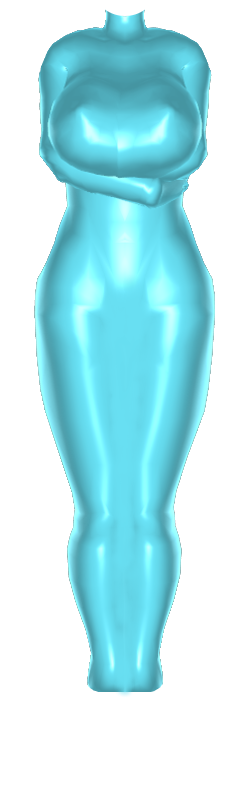
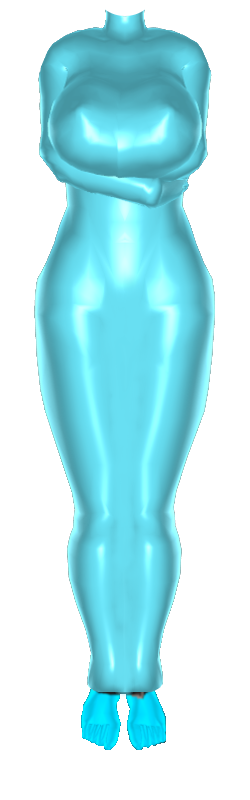
stuff

Changed region(s): [[0.308, 0.8438, 0.672, 0.9375]]

diff --git a/BondageClub/Assets/Female3DCG/Female3DCG.js b/BondageClub/Assets/Female3DCG/Female3DCG.js
@@ -110,7 +110,7 @@ var AssetFemale3DCG = [
 		ParentColor: "Bra",
 		Clothing: true,
 		Underwear: true,
-		AllowPose: ["LegsClosed", "Kneel", "FeetDress"],
+		AllowPose: ["LegsClosed", "Kneel"],
 		Color: ["Default", "#cccccc", "#aaaaaa", "#888888", "#666666", "#444444", "#222222", "#aa8080", "#80aa80", "#8080aa", "#aaaa80", "#80aaaa", "#aa80aa", "#cc3333", "#33cc33", "#3333cc", "#cccc33", "#33cccc", "#cc33cc"],
 		Left: 125,
 		Top: 400,
@@ -276,7 +276,7 @@ var AssetFemale3DCG = [
 		AllowColorize: false,
 		ParentSize: "BodyUpper",
 		ParentColor: "BodyUpper",
-		AllowPose: ["LegsClosed", "Kneel", "FeetDress"],
+		AllowPose: ["LegsClosed", "Kneel"],
 		Color: ["White", "Asian", "Black"],
 		Top: 462,
 		Asset: ["Small", "Normal", "Large", "XLarge"]
@@ -439,7 +439,7 @@ var AssetFemale3DCG = [
 			{ Name: "MermaidRopeTie", Value: 30, Time: 15, Difficulty: 3, SetPose: ["LegsClosed"] },
 			{ Name: "LeatherLegCuffs", Value: 30, Time: 10, Difficulty: 2, Priority: 20, AllowPose: ["LegsClosed"], Extended: true, AllowLock: true, AllowEffect: ["Block", "Prone"], AllowType: ["Closed"] },
 			{
-                Name: "LegBinder", Value: 150, SetPose: ["LegsClosed"], Hide: ["Shoes", "Socks"], Block: ["ClothLower", "ItemFeet"], Effect: ["Prone"], Time: 30, RemoveTime: 20, Difficulty: 15, AllowLock: true, Prerequisite: "NotKneeling",
+                Name: "LegBinder", Value: 150, SetPose: ["LegsClosed"], Hide: ["Shoes", "Socks", "ClothLower"], HideItem: ["ItemFeetNylonRope", "ItemFeetHempRope", "ItemFeetLeatherAnkleCuffs", "ItemFeetMermaidRopeTie"], Effect: ["Prone"], Time: 30, RemoveTime: 20, Difficulty: 15, AllowLock: true, Prerequisite: "NotKneeling",
                 Layer: [
                     { Name: "Latex", AllowColorize: true },
                     { Name: "Belts", AllowColorize: false }
@@ -694,7 +694,7 @@ var AssetFemale3DCG = [
 			{ Name: "BitchSuit", Random: false, SelfBondage: false, SelfUnlock: false, Value: 250, SetPose: ["BackElbowTouch", "Kneel"], Hide: ["Cloth", "ClothLower", "BodyLower", "Shoes", "Socks"], Block: ["ItemPelvis", "ItemTorso", "ItemBreast", "ItemHands"], Effect: ["Block", "Prone", "ForceKneel"], Time: 40, RemoveTime: 30, Difficulty: 15, AllowLock: true, Prerequisite: "NotSuspended" },
 			{ Name: "CollarLeashHolding", Random: false, SelfBondage: false, Priority: 34, Value: -1, Time: 3, RemoveTime: 3, Difficulty: 1, Prerequisite: "NotSuspended" },
 			{
-			    Name: "StraitDress", Random: false, SelfBondage: false, SelfUnlock: false, Value: 200, SetPose: ["BackElbowTouch", "FeetDress"], Hide: ["Cloth", "ClothLower", "Shoes"], Block: ["ItemPelvis", "ItemTorso", "ItemBreast", "ItemHands", "ItemFeet", "ItemNipples", "ItemVulva", "ItemLegs", "ItemButt"], Effect: ["Block", "Prone"], Time: 40, RemoveTime: 30, Difficulty: 15, AllowLock: true, Prerequisite: "NotKneeling",
+			    Name: "StraitDress", AllowPose: ["Kneel"], Random: false, SelfBondage: false, SelfUnlock: false, Value: 200, SetPose: ["BackElbowTouch", "LegsClosed"], Hide: ["Socks", "BodyLower", "Cloth", "ClothLower", "Shoes"], Block: ["ItemPelvis", "ItemTorso", "ItemBreast", "ItemHands", "ItemFeet", "ItemNipples", "ItemVulva", "ItemLegs", "ItemButt"], Effect: ["Block", "Prone"], HideItem: ["ItemLegsLegBinder", "ItemLegsLeatherLegCuffs", "ItemLegsMermaidRopeTie", "ItemLegsDuctTape", "ItemLegsLeatherBelt", "ItemLegsHempRope", "ItemLegsNylonRope", "ItemFeetNylonRope", "ItemFeetHempRope", "ItemFeetLeatherBelt", "ItemFeetIrish8Cuffs", "ItemFeetDuctTape", "ItemFeetMermaidRopeTie", "ItemFeetLeatherAnkleCuffs"], Time: 40, RemoveTime: 30, Difficulty: 15, AllowLock: true, Prerequisite: "NotSuspended",
 				Layer: [
 					{ Name: "Latex", AllowColorize: true },
 					{ Name: "Belts", AllowColorize: false }
